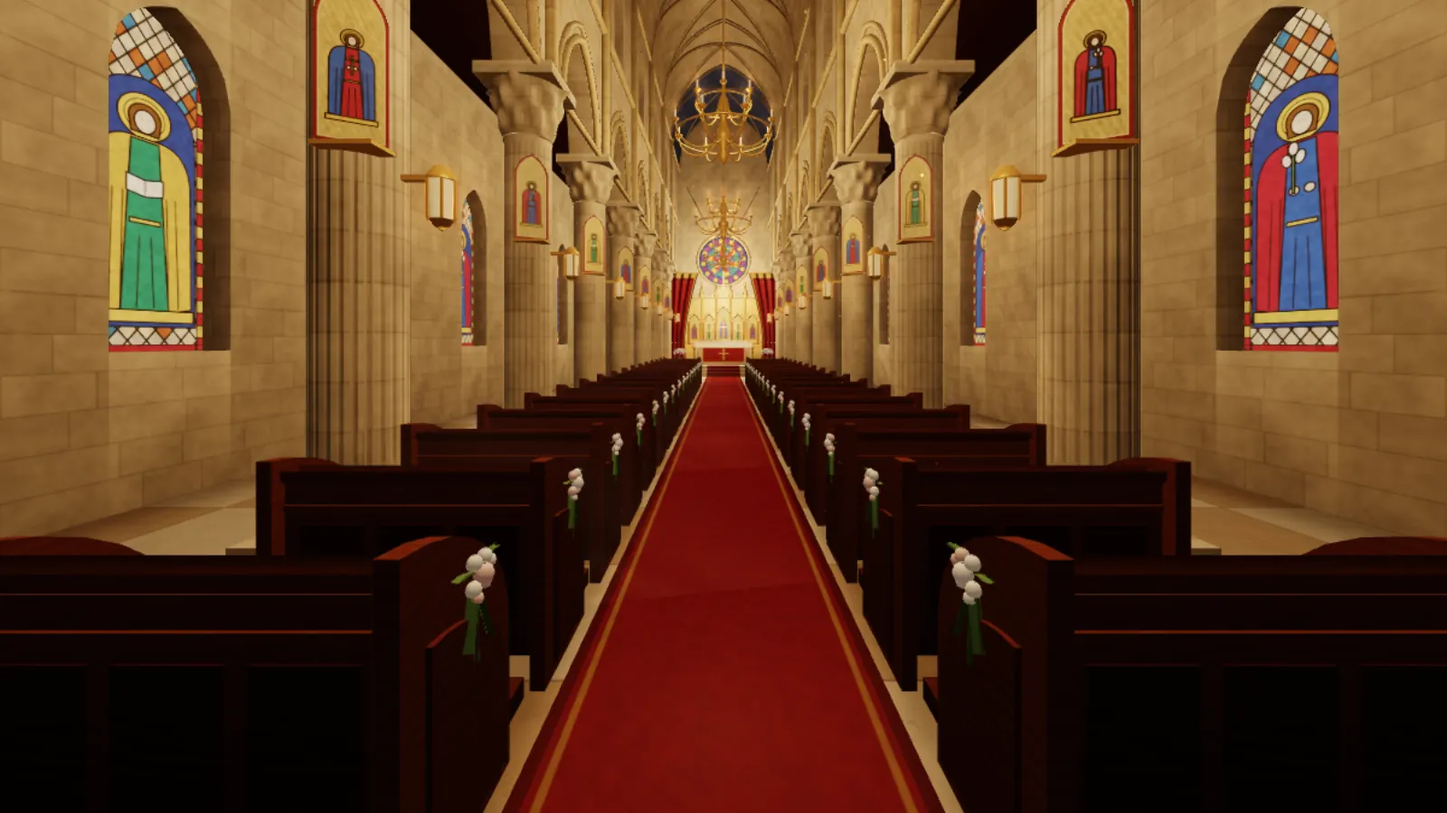
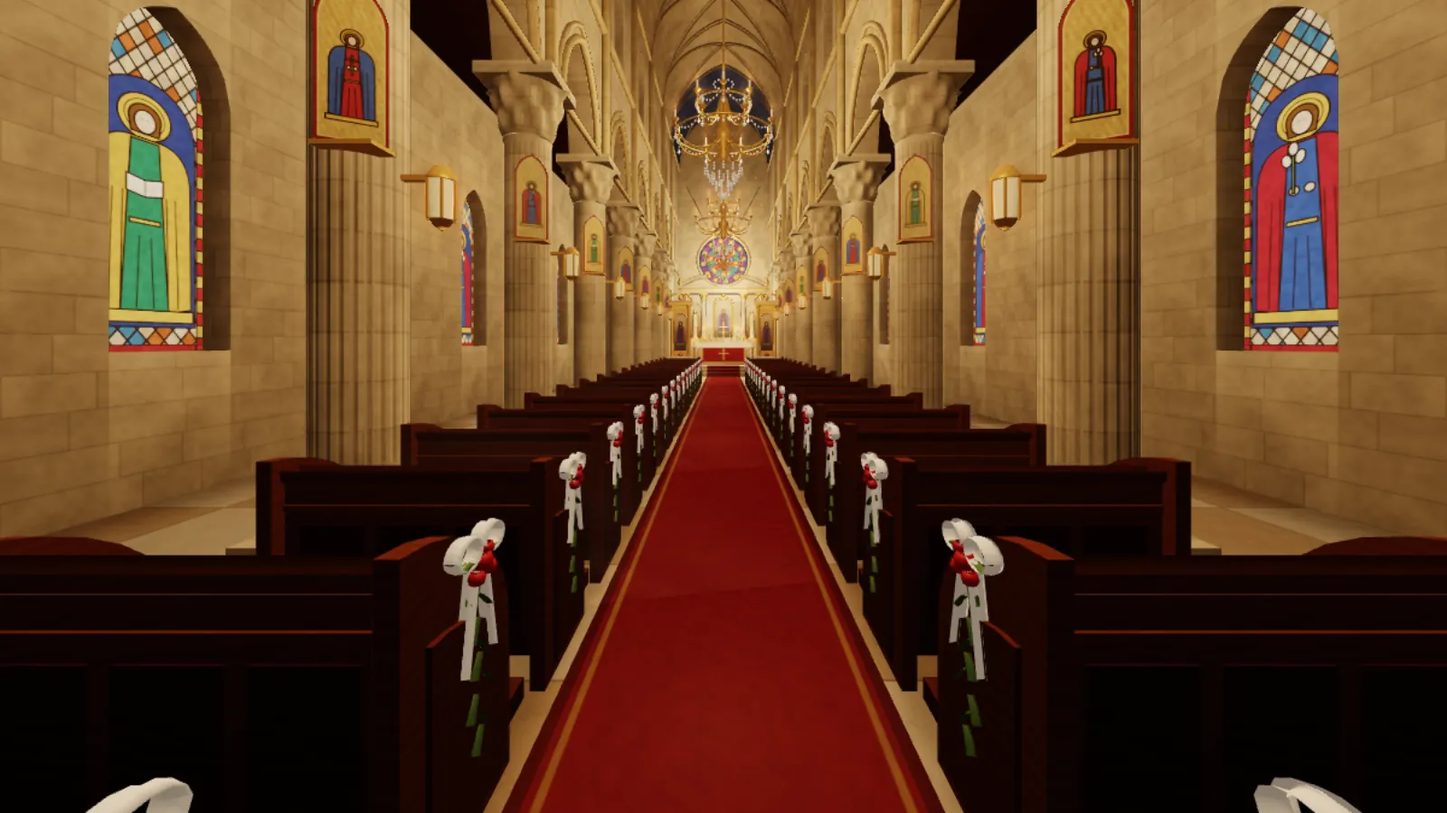
A classical high altar, gilded side altars, crystal chandeliers and pew bows, after the couple's reference
High altar: four white marble columns with gilded Corinthian capitals, a
central painted saint in a gilded round-topped frame, white marble statues
of saints between the columns, a gilded frieze, and a broken pediment
crowned by a golden sunburst and cross, set against the rose window.
Two gilded side altars flank the chancel, each with a painting, candles
and red roses; they replace the drawn-back veil and the flower urns.
Pew ends: a white tulle bow, red roses and trailing ivy.
Chandeliers: crystal, with bead swags between the candles, drops, a
crown and a cascade, on the gilded arms.

The still pictures and the link preview are re-rendered from the new
church. Unused curtain texture and materials removed.

Claude-Session: https://claude.ai/code/session_01C6WdL5bVH3JZbrkZ3ou3Pp

diff --git a/assets/js/nave.js b/assets/js/nave.js
@@ -511,21 +511,23 @@
     saint(c, wm, hm, sm, variant, true);
     return c;
   }
-  // the sanctuary veil: crimson velvet with soft damask, a gold band down the
-  // inner edge and along the hem
-  function veilTex() {
-    var n = lattice(32);
-    return canvas2(128, 256, function (d, w, h) {
-      for (var y = 0; y < h; y++) for (var x = 0; x < w; x++) {
-        var o = (y * w + x) * 4, u = x / w, v = 1 - y / h;
-        var dam = .86 + .1 * Math.sin(x * .5) * Math.sin(y * .25) + .1 * vn(n, u, v);
-        if (u > .9 || v < .045) { var g = .85 + .15 * Math.sin(y * .9 + x * .4); put(d, o, 222 * g, 172 * g, 86 * g); }
-        else if (u > .875 || (v > .05 && v < .06)) put(d, o, 60, 10, 12);
-        else put(d, o, 128 * dam, 18 * dam, 26 * dam);
+  // an altarpiece painted in oils: a round-topped canvas, a warm glowing sky over
+  // a darker ground, and the saint standing in it
+  function paintTex(wm, hm, variant) {
+    var n = lattice(16), sm = hm - wm / 2;
+    var c = canvas2(256, 512, function (d, w, h) {
+      for (var py = 0; py < h; py++) for (var px = 0; px < w; px++) {
+        var x = (px + .5) / w * wm, y = (1 - (py + .5) / h) * hm, o = (py * w + px) * 4;
+        if (!(y <= sm || Math.hypot(x - wm / 2, y - sm) <= wm / 2)) { put(d, o, 0, 0, 0, 0); continue; }
+        var v = y / hm, g = .85 + .15 * vn(n, x / wm * 2, v * 2), glow = Math.max(0, 1 - Math.hypot(x - wm / 2, (y - hm * .75) * .8) / (wm * .9));
+        var r = (70 + 120 * v + 90 * glow) * g, gg = (62 + 100 * v + 70 * glow) * g, b = (66 + 70 * v + 30 * glow) * g;
+        if (v < .22) { r *= .7; gg *= .66; b *= .6; }
+        put(d, o, r, gg, b);
       }
     });
+    saint(c, wm, hm, sm, variant, true);
+    return c;
   }
-  // procedural sprites (no download): soft glow, light beam, candle flame
   function sprite(w, h, draw) {
     var c = document.createElement("canvas"); c.width = w; c.height = h;
     draw(c.getContext("2d"), w, h);
@@ -838,75 +840,124 @@
     box(mesh("linen"), -1.42, platY + 1.08, zTable - .07, 1.42, platY + 1.095, zTable + .69);
     box(mesh("linen"), -1.42, platY + .86, zTable - .075, 1.42, platY + 1.095, zTable - .062);
 
-    // the retable behind the altar: gilded, with five saints under pointed arches
-    // (a larger one in the centre), colonnettes, pinnacles and a gable
-    var zr = ZE - .5, gilt = mesh("gilt");
-    box(gilt, -2.2, platY, zr, 2.2, platY + .8, zr + .4, [.7, 1]);
-    box(gilt, -2.0, platY + .8, zr + .1, 2.0, 3.85, zr + .4);
-    box(gold, -2.22, platY + .78, zr - .02, 2.22, platY + .84, zr + .1);
-    box(gold, -2.02, 3.82, zr + .04, 2.02, 3.88, zr + .14);
-    [[-1.5, .56, 1.52, "iconS"], [-.75, .56, 1.52, "iconB"], [0, .7, 1.9, "iconC"], [.75, .56, 1.52, "iconB"], [1.5, .56, 1.52, "iconS"]].forEach(function (ic) {
-      var x = ic[0], w = ic[1], h = ic[2], y0 = platY + 1.0, sp = h - pointed(0, w, 0, 1.6)(w / 2), arch = pointed(x - w / 2, x + w / 2, y0 + sp, 1.6);
-      panel(mesh(ic[3]), [x - w / 2, y0, zr + .09], [x + w / 2, y0, zr + .09], [x + w / 2, y0 + h, zr + .09], [x - w / 2, y0 + h, zr + .09]);
-      // a gilded moulding around each icon, following its arch
-      var out = [], q2;
-      for (q2 = 0; q2 <= 8; q2++) out.push([x - w / 2 - .03, y0 + sp * q2 / 8]);
-      for (q2 = 1; q2 < 24; q2++) { var xx = x - w / 2 + w * q2 / 24; out.push([xx, arch(xx) + .03]); }
-      for (q2 = 8; q2 >= 0; q2--) out.push([x + w / 2 + .03, y0 + sp * q2 / 8]);
-      sweep(gold, function (t) { var pt = out[Math.round(t * (out.length - 1))]; return [pt[0], pt[1], zr + .07]; }, out.length - 1, ring(.028, 6), function () { return [0, 0, 1]; });
-    });
-    [-2.0, -1.125, -.375, .375, 1.125, 2.0].forEach(function (x) {
-      lathe(gold, x, platY + .8, zr + .06, [[.06, 0], [.05, .06], [.045, 2.5], [.07, 2.56], [.07, 2.62]], 10);
-      lathe(gilt, x, 3.85, zr + .2, [[.13, 0], [.13, .16], [.1, .2], [.1, .22], [.0, .72]], 8, function (a, j) { return j === 4 ? 1 : 1 + .12 * Math.pow(Math.abs(Math.cos(a * 2)), 4); });
-      lathe(gold, x, 4.57, zr + .2, [[0, 0], [.035, .02], [.03, .05], [0, .1]], 6);
-    });
-    surf(gilt, 16, 1, function (i, j) { var x = -.8 + 1.6 * i / 16; return [x, j ? 3.85 + .62 * (1 - Math.abs(x) / .8) : 3.85, zr + .12]; });
-    // a tall gilded cross rising from the gable, standing against the rose window
-    var cz = zr + .14, cy = 4.4;
-    box(gold, -.045, cy, cz - .035, .045, cy + 1.55, cz + .035);
-    box(gold, -.36, cy + 1.02, cz - .035, .36, cy + 1.11, cz + .035);
-    [[0, cy + 1.6], [-.41, cy + 1.065], [.41, cy + 1.065]].forEach(function (b) {
-      lathe(gold, b[0], b[1] - .06, cz, [[0, 0], [.05, .02], [.065, .06], [.05, .1], [0, .12]], 10);
-    });
 
-    // the sanctuary veil, drawn back to either side and tied, on gilded rods
-    var vz = ZC + .1, vTop = 4.6, vTie = 1.55;
-    [-1, 1].forEach(function (s) {
-      var inner = function (y) { return y > vTie ? 1.72 + (1.12 - 1.72) * Math.pow((y - vTie) / (vTop - vTie), 1.5) : 1.6 + (1.72 - 1.6) * y / vTie; };
-      surf(mesh("veil"), 28, 18, function (i, j) {
-        var u = i / 28, y = vTop * j / 18, xin = inner(y), wdt = X - .02 - xin;
-        return [s * (X - .02 - u * wdt), y, vz + (.025 + .06 * wdt) * Math.sin(u * Math.PI * 7) - .04 * u];
-      }, { uv: function (i, j) { return [i / 28, j / 18]; }, ao: function (i, j) { return .75 + .25 * Math.abs(Math.sin(i / 28 * Math.PI * 7)); } });
-      sweep(gold, function (t) { var x = X - .02 - (X - .02 - 1.67) * t; return [s * x, vTie, vz - .02 + .07 * Math.sin(t * Math.PI)]; }, 8, ring(.025, 6), function () { return [0, 1, 0]; });
-      sweep(gold, function (t) { return [s * (X - (X - 1.02) * t), vTop + .03, vz]; }, 1, ring(.024, 8), function () { return [0, 1, 0]; });
-      lathe(gold, s * 1.0, vTop - .03, vz, [[0, 0], [.045, .02], [.06, .06], [.045, .1], [0, .12]], 10);
-    });
+    function bigCross(cx, cy, cz, sc) {
+      box(gold, cx - .045 * sc, cy, cz - .035, cx + .045 * sc, cy + 1.55 * sc, cz + .035);
+      box(gold, cx - .36 * sc, cy + 1.02 * sc, cz - .035, cx + .36 * sc, cy + 1.11 * sc, cz + .035);
+      [[0, 1.6], [-.41, 1.065], [.41, 1.065]].forEach(function (b) { lathe(gold, cx + b[0] * sc, cy + (b[1] - .06) * sc, cz, [[0, 0], [.05 * sc, .02 * sc], [.065 * sc, .06 * sc], [.05 * sc, .1 * sc], [0, .12 * sc]], 10); });
+    }
 
-    // wedding flowers: white posies on the pew ends down the aisle, and two
-    // tall urns of blooms by the sanctuary steps
-    var leafM = mesh("leaf"), nb = 0;
-    function bloom(x, y, z, r) { lathe(mesh(nb++ % 3 === 1 ? "blush" : "bloom"), x, y, z, [[0, -r], [r * .75, -r * .7], [r, -r * .1], [r * .8, r * .55], [r * .35, r * .9], [0, r * .75]], 8); }
-    function leaf(x, y, z, dx, dy, dz) { sweep(leafM, function (t) { return [x + dx * t, y + dy * t - .03 * t * t, z + dz * t]; }, 3, [[-.018, 0], [0, .006], [.018, 0], [0, -.006]], null); }
-    for (var pr = M.pewFrom; pr <= M.pewTo + .01; pr += 1) {
+    {
+      // the high altar, after the couple's reference: white marble columns with
+      // gilded capitals, a central painting, statues between the columns, a broken pediment with a glory
+      var zr = ZE - .5, wm2 = mesh("statue"), gc = mesh("gilt");
+      function statue(x, y, z, h) {
+        lathe(wm2, x, y, z, [[.17, 0], [.17, .04], [.15, .06], [.15, .1], [.14, .1], [.12, h * .5], [.105, h * .68], [.12, h * .74], [.08, h * .8], [0, h * .81]], 14, function (a, j) { return j > 4 && j < 7 ? 1 + .06 * Math.sin(a * 5) : 1; });
+        lathe(wm2, x, y + h * .81, z, [[.035, 0], [.035, .04], [.06, .07], [.068, .12], [.05, .18], [0, .19]], 10);
+        lathe(wm2, x, y + h * .56, z - .1, [[0, -.04], [.04, -.02], [.045, .02], [0, .05]], 8);
+        sweep(gold, function (t) { var a = t * Math.PI * 2; return [x + Math.cos(a) * .11, y + h * .81 + .11 + Math.sin(a) * .11, z + .07]; }, 20, ring(.008, 4), function () { return [0, 0, 1]; });
+      }
+      function corinthian(x, y0, y1, z, r) {
+        lathe(gold, x, y0, z, [[r * 1.5, 0], [r * 1.5, .05], [r * 1.25, .09], [r * 1.3, .13], [r * 1.05, .17]], 16);
+        lathe(mesh("statue"), x, y0 + .17, z, [[r, 0], [r * 1.02, (y1 - y0 - .45) * .33], [r * .88, y1 - y0 - .45]], 16);
+        var cap = []; for (var c2 = 0; c2 <= 8; c2++) { var t = c2 / 8; cap.push([r * .9 + r * .75 * t * t, t * .28]); }
+        lathe(gold, x, y1 - .28, z, cap, 32, function (a, j) { var t = j / 8; return 1 + Math.pow(Math.abs(Math.cos(a * 4)), 3) * Math.sin(t * Math.PI) * .25; });
+        box(gold, x - r * 1.8, y1, z - r * 1.8, x + r * 1.8, y1 + .05, z + r * 1.8);
+      }
+      var eY = 4.0;
+      box(marble, -2.25, platY, zr - .1, 2.25, platY + .8, zr + .45, [.7, 1]);
+      box(gold, -2.27, platY + .74, zr - .13, 2.27, platY + .8, zr - .08);
+      box(marble, -2.1, platY + .8, zr + .28, 2.1, eY, zr + .45);
+      // pedestals and the four columns, paired either side
+      [-1.92, -1.02, 1.02, 1.92].forEach(function (x) {
+        box(gc, x - .2, platY + .8, zr - .24, x + .2, platY + 1.28, zr + .2);
+        box(gold, x - .21, platY + 1.24, zr - .25, x + .21, platY + 1.29, zr + .21);
+        corinthian(x, platY + 1.29, eY, zr - .04, .13);
+      });
+      // the central painting in a gilded frame
+      var pw = .92, ph = 2.0, py0 = platY + 1.36, pz = zr + .26;
+      panel(mesh("paintC"), [-pw / 2, py0, pz], [pw / 2, py0, pz], [pw / 2, py0 + ph, pz], [-pw / 2, py0 + ph, pz]);
+      var fr = [], q3, spP = py0 + ph - pw / 2;
+      for (q3 = 0; q3 <= 6; q3++) fr.push([-pw / 2 - .04, py0 + (spP - py0) * q3 / 6]);
+      for (q3 = 1; q3 < 24; q3++) { var a3 = Math.PI - Math.PI * q3 / 24; fr.push([Math.cos(a3) * (pw / 2 + .04), spP + Math.sin(a3) * (pw / 2 + .04)]); }
+      for (q3 = 6; q3 >= 0; q3--) fr.push([pw / 2 + .04, py0 + (spP - py0) * q3 / 6]);
+      [[.045, 0], [.025, -.06]].forEach(function (rr) { sweep(gold, function (t) { var pt = fr[Math.round(t * (fr.length - 1))]; return [pt[0] * (1 + rr[1] * -1.2), pt[1] + rr[1] * (pt[1] > spP ? -1 : 0), pz - .03]; }, fr.length - 1, ring(rr[0], 6), function () { return [0, 0, 1]; }); });
+      lathe(gold, 0, py0 + ph + .08, pz - .04, [[0, 0], [.09, .02], [.12, .1], [.07, .2], [0, .24]], 10);
+      // statues of saints between each pair of columns, on gilded brackets
+      [-1.47, 1.47].forEach(function (x) {
+        box(gold, x - .19, platY + 1.24, zr - .14, x + .19, platY + 1.32, zr + .26);
+        statue(x, platY + 1.32, zr + .02, 1.55);
+        // a painted shell niche behind the statue
+        panel(mesh("paintG"), [x - .3, platY + 1.32, zr + .27], [x + .3, platY + 1.32, zr + .27], [x + .3, platY + 3.1, zr + .27], [x - .3, platY + 3.1, zr + .27]);
+      });
+      // the entablature: architrave, a gilded frieze, a projecting cornice
+      box(marble, -2.2, eY + .05, zr - .2, 2.2, eY + .17, zr + .45);
+      box(gold, -2.2, eY + .17, zr - .18, 2.2, eY + .29, zr + .45);
+      box(marble, -2.32, eY + .29, zr - .3, 2.32, eY + .42, zr + .45);
+      for (var dn = -2.2; dn <= 2.21; dn += .2) box(gold, dn - .03, eY + .29, zr - .31, dn + .03, eY + .33, zr - .29);
+      // the broken segmental pediment, with scrolls at its inner ends, and gilded urns at its outer ends
       [-1, 1].forEach(function (s) {
-        var px = s * (M.pewIn - .055), py = .86, pz = pr + .26;
-        [[0, 0, .034], [.045, -.03, .026], [.04, .035, .026], [-.04, .03, .025], [-.035, -.035, .026], [.012, .07, .022], [-.075, -.01, .02]].forEach(function (b, q) {
-          bloom(px - s * (q ? .015 : .03), py + b[0], pz + b[1], b[2]);
+        sweep(marble, function (t) { var x = s * (2.25 - 1.5 * t); return [x, eY + .42 + .5 * Math.sin(t * Math.PI / 2), zr - .12]; }, 12, [[-.13, -.08], [.13, -.08], [.13, .08], [-.13, .08]], function () { return [0, 0, 1]; });
+        sweep(gold, function (t) { var x = s * (2.25 - 1.5 * t); return [x, eY + .51 + .5 * Math.sin(t * Math.PI / 2), zr - .26]; }, 12, ring(.02, 5), function () { return [0, 0, 1]; });
+        lathe(gold, s * .74, eY + .92, zr - .12, [[0, -.1], [.1, -.06], [.11, .02], [.06, .1], [0, .11]], 12);
+        lathe(gold, s * 2.2, eY + .42, zr - .12, [[0, 0], [.09, .02], [.06, .06], [.1, .14], [.11, .22], [.05, .3], [.07, .36], [0, .48]], 12);
+      });
+      // the glory: a gilded sunburst with the cross above it, set against the rose window
+      var gx = 0, gyy = eY + 1.05, gz = zr - .1;
+      lathe(gold, gx, gyy, gz, [[0, -.17], [.12, -.12], [.17, 0], [.12, .12], [0, .17]], 16);
+      for (var ry = 0; ry < 24; ry++) {
+        var ra = ry / 24 * Math.PI * 2, L = ry % 2 ? .42 : .62, ca2 = Math.cos(ra), sa2 = Math.sin(ra);
+        sweep(gold, function (t) { return [gx + ca2 * (.17 + L * t), gyy + sa2 * (.17 + L * t), gz + .02]; }, 1, [[-.018, 0], [0, .008], [.018, 0], [0, -.008]], function () { return [0, 0, 1]; });
+      }
+      bigCross(gx, gyy + .7, gz, .4);
+      // two side altars flanking the chancel, gilded, each with a painting of a saint
+      [-1, 1].forEach(function (s) {
+        var cx = s * 1.88, cz = M.coupleZ - .05;
+        box(marble, cx - .46, 0, cz, cx + .46, .92, cz + .4, [.6, 1]);
+        panel(mesh("frontal"), [cx - .38, .1, cz - .012], [cx + .38, .1, cz - .012], [cx + .38, .82, cz - .012], [cx - .38, .82, cz - .012]);
+        box(mesh("linen"), cx - .48, .92, cz - .04, cx + .48, .94, cz + .42);
+        box(gc, cx - .44, .94, cz + .3, cx + .44, 3.35, cz + .42);
+        [-.36, .36].forEach(function (dx) {
+          lathe(gold, cx + dx, .94, cz + .2, [[.08, 0], [.08, .06], [.06, .1], [.055, 2.1], [.085, 2.16], [.09, 2.24]], 12, function (a, j) { return j > 2 && j < 4 ? 1 + .08 * Math.sin(a * 6 + j * 3) : 1; });
         });
-        leaf(px, py - .03, pz, -s * .02, -.17, .06); leaf(px, py - .03, pz, -s * .02, -.15, -.08); leaf(px, py + .02, pz, -s * .01, .05, .13);
-        leaf(px, py - .02, pz, -s * .01, -.24, .0); leaf(px, py, pz, -s * .01, .06, -.12);
+        panel(mesh("paintM"), [cx - .27, 1.2, cz + .29], [cx + .27, 1.2, cz + .29], [cx + .27, 2.82, cz + .29], [cx - .27, 2.82, cz + .29]);
+        var f2 = [], k2; for (k2 = 0; k2 <= 4; k2++) f2.push([cx - .29, 1.18 + 1.37 * k2 / 4]); for (k2 = 1; k2 < 16; k2++) { var a4 = Math.PI - Math.PI * k2 / 16; f2.push([cx + Math.cos(a4) * .29, 2.55 + Math.sin(a4) * .29]); } for (k2 = 4; k2 >= 0; k2--) f2.push([cx + .29, 1.18 + 1.37 * k2 / 4]);
+        sweep(gold, function (t) { var pt = f2[Math.round(t * (f2.length - 1))]; return [pt[0], pt[1], cz + .27]; }, f2.length - 1, ring(.03, 6), function () { return [0, 0, 1]; });
+        box(gold, cx - .5, 3.18, cz + .1, cx + .5, 3.3, cz + .42);
+        box(marble, cx - .54, 3.3, cz + .08, cx + .54, 3.38, cz + .42);
+        [-1, 1].forEach(function (k) { sweep(gold, function (t) { var x = cx + k * (.54 - .34 * t); return [x, 3.38 + .3 * Math.sin(t * Math.PI / 2), cz + .2]; }, 8, ring(.04, 6), function () { return [0, 0, 1]; }); });
+        lathe(gold, cx, 3.38, cz + .2, [[0, 0], [.08, .03], [.1, .12], [.06, .22], [0, .26]], 10);
+        bigCross(cx, 3.62, cz + .2, .22);
+        // candles and a few roses on the side altar
+        [-.3, .3].forEach(function (dx) {
+          lathe(gold, cx + dx, .94, cz + .12, [[.05, 0], [.02, .04], [.015, .22], [.035, .26]], 8);
+          lathe(wax, cx + dx, 1.2, cz + .12, [[.018, 0], [.018, .18], [0, .19]], 6);
+          lights.push({ kind: "flame", p: [cx + dx, 1.42, cz + .1], s: .06, c: [1, .9, .7], a: 1, ph: Math.random() * 9, candle: cz });
+          lights.push({ kind: "glow", p: [cx + dx, 1.42, cz + .09], s: .7, c: [1, .62, .3], a: .25, ph: Math.random() * 9, candle: cz });
+        });
+        [[0, 0, .05], [-.07, .02, .04], [.07, .02, .04], [0, .07, .038]].forEach(function (b) {
+          lathe(mesh("rosebud"), cx + b[0], 1.0 + b[1], cz + .16, [[0, -b[2]], [b[2] * .8, -b[2] * .6], [b[2], 0], [b[2] * .7, b[2] * .7], [0, b[2] * .55]], 8);
+        });
       });
     }
-    [-1, 1].forEach(function (s) {
-      var ux = s * 1.9, uz = M.coupleZ + .2;
-      lathe(gold, ux, 0, uz, [[0, 0], [.2, 0], [.2, .05], [.08, .12], [.06, .55], [.12, .62], [.24, .75], [.26, .82], [.2, .86]], 16);
-      for (var fb = 0; fb < 34; fb++) {
-        var a = fb * 2.39996, rr = .28 * Math.sqrt((fb + .5) / 34), hh = .95 + .32 * Math.sqrt(1 - rr * rr / .09);
-        bloom(ux + Math.cos(a) * rr, hh, uz + Math.sin(a) * rr, .05 + .012 * ((fb * 7) % 3) / 2);
-      }
-      for (var lf = 0; lf < 11; lf++) { var la2 = lf / 11 * Math.PI * 2; leaf(ux, .92, uz, Math.cos(la2) * .4, -.26 - .1 * (lf % 2), Math.sin(la2) * .4); }
-    });
-
+    // wedding flowers on the pew ends: a white tulle bow, red roses and a trail of ivy
+    var leafM = mesh("leaf");
+    function leaf(x, y, z, dx, dy, dz) { sweep(leafM, function (t) { return [x + dx * t, y + dy * t - .03 * t * t, z + dz * t]; }, 3, [[-.018, 0], [0, .006], [.018, 0], [0, -.006]], null); }
+    for (var pr2 = M.pewFrom; pr2 <= M.pewTo + .01; pr2 += 1) {
+      // a white tulle bow with red roses and a trail of ivy on each pew end
+      [-1, 1].forEach(function (s) {
+        var px = s * (M.pewIn - .06), py = .9, pz = pr2 + .26, tl = mesh("tulle"), rs = mesh("rosebud");
+        [-1, 1].forEach(function (k) {
+          sweep(tl, function (t) { var a = t * Math.PI * 2; return [px, py + .05 + Math.sin(a) * .045, pz + k * (.075 + Math.cos(a) * .065)]; }, 14, [[-.03, 0], [0, .008], [.03, 0], [0, -.008]], function () { return [1, 0, 0]; });
+          sweep(tl, function (t) { return [px, py - .02 - .3 * t, pz + k * (.03 + .06 * t)]; }, 4, [[-.028, 0], [0, .006], [.028, 0], [0, -.006]], function () { return [1, 0, 0]; });
+        });
+        [[0, 0, .036], [-.035, .04, .028], [-.04, -.035, .028], [.03, .03, .025]].forEach(function (b) {
+          lathe(rs, px - s * .02, py + b[0], pz + b[1], [[0, -b[2]], [b[2] * .8, -b[2] * .6], [b[2], 0], [b[2] * .7, b[2] * .7], [0, b[2] * .55]], 8);
+        });
+        for (var iv = 0; iv < 9; iv++) { var yy = py - .06 - iv * .06, zz = pz + .02 * Math.sin(iv * 1.7); leaf(px, yy, zz, -s * .01, -.03, (iv % 2 ? .05 : -.05)); }
+        leaf(px, py, pz, -s * .01, .05, .1); leaf(px, py, pz, -s * .01, .04, -.11);
+      });
+    }
     // two tall candle stands before the steps, where the couple will stand
     [-1, 1].forEach(function (s) {
       var x = s * 1.32, z = M.coupleZ + .9;
@@ -942,7 +993,8 @@
       });
     }
 
-    // bronze chandeliers hanging down the nave, each with two tiers of candles
+    // crystal chandeliers hanging down the nave: two tiers of candles on gilded arms,
+    // swags of crystal beads between the candles, drops below them, a crown and a cascade
     [4.5, 10.5, 16.5, 22.5].forEach(function (zc) {
       var yc = 5.0;
       lathe(gold, 0, yc, zc, [[0, -.5], [.05, -.46], [.09, -.36], [.05, -.25], [.13, -.1], [.15, 0], [.09, .07], [.05, .22], [.11, .4], [.075, .55], [.03, .66], [.035, .95], [.025, 1.0]], 16);
@@ -968,6 +1020,23 @@
           })(ca, sa);
         }
       });
+      var cry = mesh("crystal");
+      var bead = function (x, y, z, r) { lathe(cry, x, y, z, [[0, -r * 1.5], [r, 0], [0, r * 1.1]], 6); };
+      [[8, .82, 0], [6, .48, .5]].forEach(function (tier) {
+        var n = tier[0], R = tier[1], cy = yc + tier[2] + .05, cups = [];
+        for (var q = 0; q < n; q++) { var a = (q + .5) / n * Math.PI * 2; cups.push([Math.cos(a) * R, Math.sin(a) * R]); }
+        cups.forEach(function (c, q) {
+          var d = cups[(q + 1) % n];
+          for (var bb = 1; bb < 8; bb++) { var t = bb / 8; bead(c[0] + (d[0] - c[0]) * t, cy - .02 - .14 * Math.sin(t * Math.PI), zc + c[1] + (d[1] - c[1]) * t, .019); }
+          for (var dd = 1; dd <= 3; dd++) bead(c[0], cy - .03 - dd * .05, zc + c[1], .016);
+          bead(c[0], cy - .22, zc + c[1], .034);
+        });
+      });
+      for (var cr = 0; cr < 12; cr++) { var ca3 = cr / 12 * Math.PI * 2; bead(Math.cos(ca3) * .16, yc + .82, zc + Math.sin(ca3) * .16, .02); }
+      [[.3, -.56, 12, .021], [.22, -.68, 10, .023], [.13, -.8, 7, .026]].forEach(function (rg) {
+        for (var cc = 0; cc < rg[2]; cc++) { var ca4 = cc / rg[2] * Math.PI * 2; for (var k3 = 0; k3 < 3; k3++) bead(Math.cos(ca4) * rg[0], yc + rg[1] - k3 * .045, zc + Math.sin(ca4) * rg[0], rg[3]); }
+      });
+      bead(0, yc - 1.0, zc, .06);
       lights.push({ kind: "glow", p: [0, yc + .2, zc], s: 3.4, c: [1, .64, .32], a: .12, ph: Math.random() * 9, candle: zc });
       lights.push({ kind: "pool", p: [0, 0, zc], s: 4.2, c: [1, .66, .36], a: .1, ph: 0, candle: zc });
       points.push({ p: [0, yc + .1, zc], c: [1, .66, .38], i: 2.6, k: .16, candle: zc });
@@ -1004,6 +1073,7 @@
     ["wood", [1, 1, 1], "wood", 1, 1 / 1.1, .45, 40, 0, 0],
     ["dark", [.42, .3, .24], "wood", 1, 1 / 1.1, .1, 20, 0, 0],
     ["gold", [.86, .6, .3], "white", 0, 1, 1.3, 30, .02, 1],
+    ["crystal", [1.15, 1.13, 1.2], "white", 0, 1, 2.4, 90, .3, 0],
     ["wax", [1, .94, .82], "white", 0, 1, .2, 10, .25, 0],
     ["lamp", [1, .8, .52], "white", 0, 1, 0, 1, .55, 0, "lamp"],
     ["stone", [1, 1, 1], "stone", 1, .5, .06, 14, 0, 0],
@@ -1014,12 +1084,13 @@
     ["frontal", [1, 1, 1], "frontal", 2, 1, .15, 16, .05, 0],
     ["gilt", [1.05, .8, .48], "stone", 1, .5, .7, 26, .03, .6],
     ["linen", [1.1, 1.08, 1.02], "white", 0, 1, .15, 12, .12, 0],
-    ["veil", [1, 1, 1], "veil", 2, 1, .12, 10, .02, 0],
-    ["bloom", [1.05, 1.02, .98], "white", 0, 1, .2, 14, .14, 0],
-    ["blush", [1.05, .8, .78], "white", 0, 1, .2, 14, .12, 0],
+    ["statue", [1.12, 1.09, 1.04], "marble", 1, 1 / 1.2, .35, 40, .04, 0],
+    ["tulle", [1.12, 1.12, 1.1], "white", 0, 1, .25, 12, .18, 0],
+    ["rosebud", [.68, .07, .1], "white", 0, 1, .3, 18, .04, 0],
+    ["paintC", [1, 1, 1], "paintC", 2, 1, .2, 20, .1, 0], ["paintM", [1, 1, 1], "paintM", 2, 1, .2, 20, .1, 0], ["paintG", [1, 1, 1], "paintG", 2, 1, .2, 20, .1, 0],
     ["leaf", [.24, .4, .2], "white", 0, 1, .25, 18, .02, 0],
-    ["iconC", [1, 1, 1], "iconC", 2, 1, .35, 24, .3, 0], ["iconS", [1, 1, 1], "iconS", 2, 1, .35, 24, .3, 0],
-    ["iconB", [1, 1, 1], "iconB", 2, 1, .35, 24, .3, 0],
+    ["iconC", [1, 1, 1], "iconC", 2, 1, .35, 24, .14, 0], ["iconS", [1, 1, 1], "iconS", 2, 1, .35, 24, .14, 0],
+    ["iconB", [1, 1, 1], "iconB", 2, 1, .35, 24, .14, 0],
     ["carpet", [.62, .57, .57], "carpet", 2, 1, .05, 6, 0, 0],
     ["floor", [.95, .95, .95], "marble", 3, 1 / 2.4, .38, 50, 0, 0],
     ["vault", [1.04, 1, .95], "stone", 1, .5, .02, 8, 0, 0],
@@ -1358,7 +1429,8 @@
       function () { tex.wood = texture(woodTex(), true); tex.carpet = texture(carpetTex(), true); },
       function () { tex.stars = texture(starTex(), true); tex.niche = texture(nicheTex()); tex.frontal = texture(frontalTex()); },
       function () { tex.rose = texture(roseTex()); },
-      function () { tex.veil = texture(veilTex()); tex.iconC = texture(iconTex(.7, 1.9, 0)); tex.iconS = texture(iconTex(.56, 1.52, 1)); tex.iconB = texture(iconTex(.56, 1.52, 2)); },
+      function () { tex.paintC = texture(paintTex(.92, 2.0, 0)); tex.paintM = texture(paintTex(.54, 1.62, 1)); tex.paintG = texture(paintTex(.6, 1.78, 2)); },
+      function () { tex.iconC = texture(iconTex(.7, 1.9, 0)); tex.iconS = texture(iconTex(.56, 1.52, 1)); tex.iconB = texture(iconTex(.56, 1.52, 2)); },
       function () { for (var v = 0; v < 3; v++) tex["glassC" + v] = texture(lancetTex(.92, 1.25 + rise(.92), 1.25, v, 128, 512)); },
       function () { tex.glassA0 = texture(lancetTex(1.1, 2.7 + rise(1.1), 2.7, 0, 256, 1024)); },
       function () { tex.glassA1 = texture(lancetTex(1.1, 2.7 + rise(1.1), 2.7, 1, 256, 1024)); },

diff --git a/index.html b/index.html
@@ -17,7 +17,7 @@
   <meta property="og:title" content="Jibin Varghese &amp; Sofia John · 25 April 2027">
   <meta property="og:description" content="With the grace of God, we invite you to celebrate our wedding in Kozhikode, Kerala.">
   <meta property="og:url" content="https://jibin-varghese.github.io/jibin-weds-sofia/">
-  <meta property="og:image" content="https://jibin-varghese.github.io/jibin-weds-sofia/assets/images/og-image.jpg?v=3">
+  <meta property="og:image" content="https://jibin-varghese.github.io/jibin-weds-sofia/assets/images/og-image.jpg?v=4">
   <meta property="og:image:width" content="1200">
   <meta property="og:image:height" content="630">
   <meta name="twitter:card" content="summary_large_image">
@@ -40,7 +40,7 @@
   <script>(function (r) { r.classList.replace('no-js', 'js'); if (!(window.matchMedia && matchMedia('(prefers-reduced-motion: reduce)').matches)) r.classList.add('journey'); })(document.documentElement);</script>
   <script src="config.js?v=20261024m" defer></script>
   <script src="assets/js/rsvp.js?v=20261024m" defer></script>
-  <script src="assets/js/nave.js?v=20261102c" defer></script>
+  <script src="assets/js/nave.js?v=20261102d" defer></script>
   <script src="assets/js/journey.js?v=20261102b" defer></script>
   <script src="assets/js/main.js?v=20261102c" defer></script>
 </head>

diff --git a/assets/css/styles.css b/assets/css/styles.css
@@ -203,8 +203,8 @@ h1, h2, h3, p, .invite__lines p, .verse__text { text-wrap: balance; }
 .nave > * { position: absolute; }
 .nave__gl { inset: 0; width: 100%; height: 100%; display: block; }
 .nave--still { background: var(--nave-black); }
-.nave--still::after { content: ""; position: absolute; inset: 0; background: url("../images/nave/still-portrait.webp?v=20261102c") 50% 40% / cover no-repeat; }
-@media (min-aspect-ratio: 1/1) { .nave--still::after { background-image: url("../images/nave/still-landscape.webp?v=20261102c"); } }
+.nave--still::after { content: ""; position: absolute; inset: 0; background: url("../images/nave/still-portrait.webp?v=20261102d") 50% 40% / cover no-repeat; }
+@media (min-aspect-ratio: 1/1) { .nave--still::after { background-image: url("../images/nave/still-landscape.webp?v=20261102d"); } }
 .nave__vignette { inset: 0; z-index: 5; background: radial-gradient(130% 95% at 50% 42%, rgba(0, 0, 0, 0) 55%, rgba(0, 0, 0, .55) 100%); }
 
 /* ======================================================= HERO (film) */

diff --git a/README.md b/README.md
@@ -65,11 +65,11 @@ Keep the stations and the camera points in step.
 | Layer | File | Notes |
 |---|---|---|
 | Opening picture | `assets/images/hero/hero-portrait.webp`, `hero-landscape.webp` | the top of your collage, fading into the dark where the names sit; on wide screens it stands over a blurred copy of itself |
-| The church | `assets/js/nave.js` | real 3D, built and painted in code on load: fluted columns with leafy capitals, pointed arcades, a rib vault (starry over the sanctuary), stained-glass lancets with saints (halo, robe and cloak, holding a cross, a lily or a book; three designs alternating) and a rose window, panelled pews, four bronze chandeliers, lanterns, marble steps, the altar with its crimson frontal, white linen and candles; behind it a gilded retable of five painted saints under pointed arches, and a tall gilded cross standing against the rose window; a red-and-gold sanctuary veil drawn back to either side; saint icons on the pillars, turned toward the aisle (so phones see saints too, not only the wide side windows); white and blush flowers on every pew end and in two urns by the steps. Nothing to download |
+| The church | `assets/js/nave.js` | real 3D, built and painted in code on load: fluted columns with leafy capitals, pointed arcades, a rib vault (starry over the sanctuary), stained-glass lancets with saints (halo, robe and cloak, holding a cross, a lily or a book; three designs alternating) and a rose window, panelled pews, four crystal chandeliers (gilded arms, swags of crystal beads, drops, a crown and a cascade), lanterns, marble steps, the altar with its crimson frontal, white linen and candles; behind it a classical high altar: four white marble columns with gilded capitals, a central painting of a saint in a gilded round-topped frame, white marble statues of saints between the columns, a gilded frieze and a broken pediment crowned by a golden sunburst and cross that stand against the rose window; two gilded side altars flanking the chancel, each with a painting, candles and red roses; saint icons on the pillars, turned toward the aisle (so phones see saints too, not only the wide side windows); a white tulle bow with red roses and trailing ivy on every pew end. Nothing to download |
 | Still church (no graphics chip, or "reduce motion") | `assets/images/nave/still-portrait.webp`, `still-landscape.webp` | renders of the same church (re-render them after changing `nave.js`) |
 | The couple (finale) | `assets/images/closing/couple-arches.webp` | your AI-generated photo |
 
-**Changing the church.** Its plan is at the top of `nave.js` (`M`: pier spacing, nave width, pews, altar) and in `build()`; the light in `render()` (`amb` for the overall level, `points` for the chandeliers, lanterns and sanctuary); the stone, marble, wood, carpet and glass are painted by the `…Tex()` functions. About 130k triangles and ~30 draw calls for the building, so phones keep up; if a phone struggles, the church is drawn at a lower resolution automatically.
+**Changing the church.** Its plan is at the top of `nave.js` (`M`: pier spacing, nave width, pews, altar) and in `build()`; the light in `render()` (`amb` for the overall level, `points` for the chandeliers, lanterns and sanctuary); the stone, marble, wood, carpet and glass are painted by the `…Tex()` functions. About 150k triangles and ~32 draw calls for the building, so phones keep up; if a phone struggles, the church is drawn at a lower resolution automatically.
 
 **Credits.** Both photos are your own, so no credit line is needed.
 
